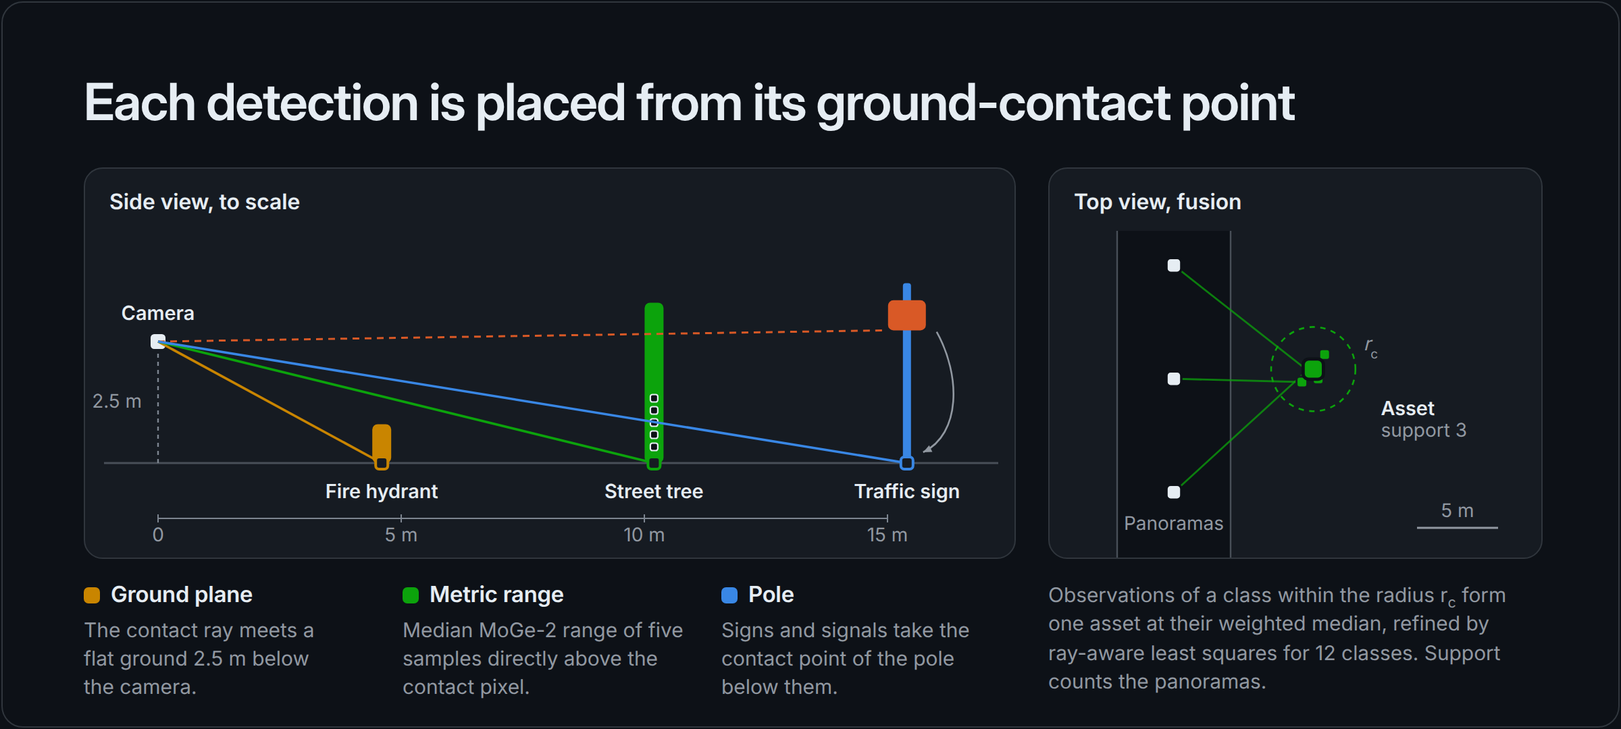
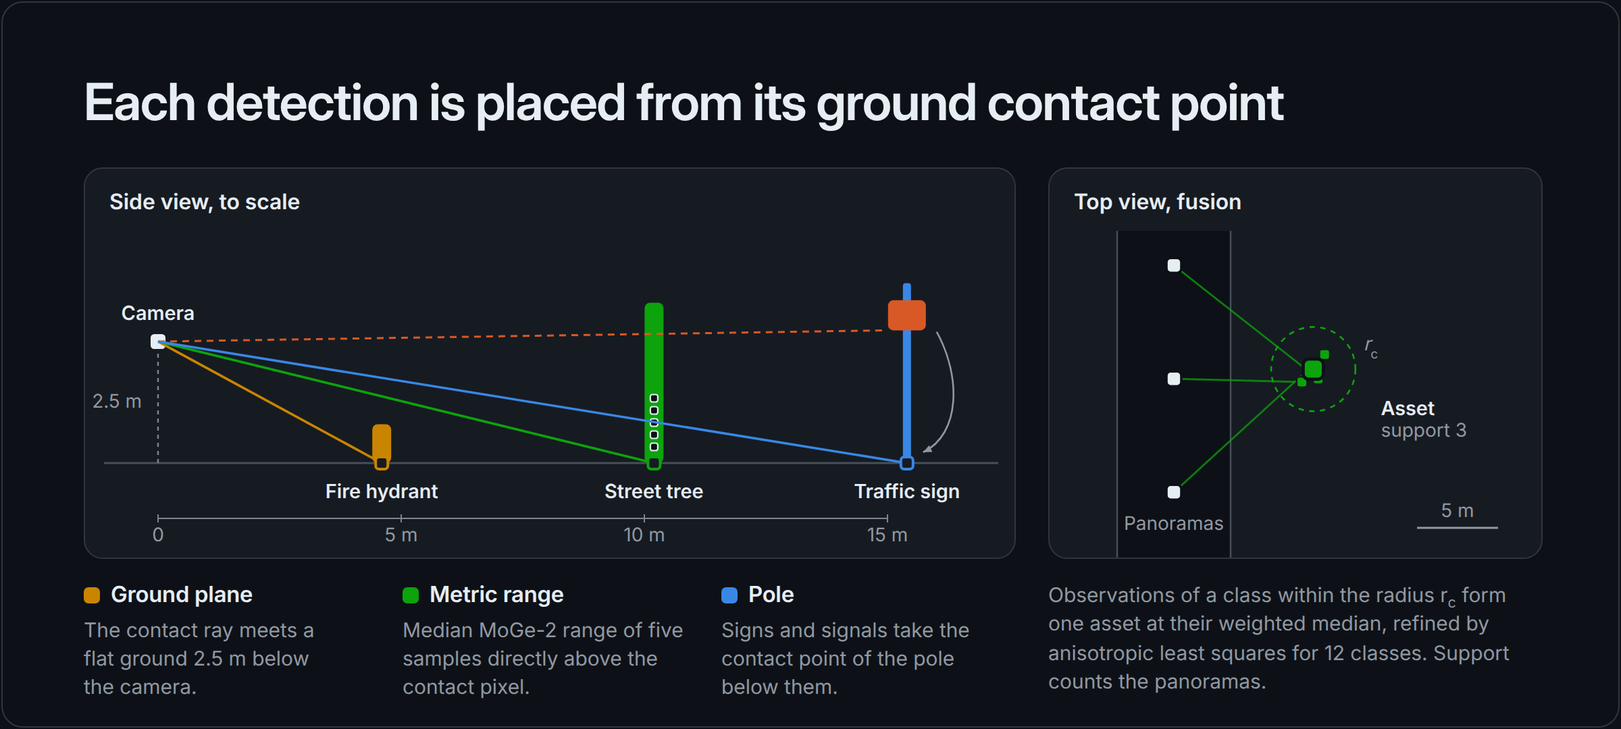
Wording: established terms and no needless hyphens in noun compounds

Changed region(s): [[0.5938, 0.1222, 0.8125, 0.1833], [0.625, 0.8861, 0.9375, 0.9167]]

diff --git a/docs/data.html b/docs/data.html
@@ -42,7 +42,7 @@
 <h1>Data formats</h1>
 <h2 id="panorama-index">Panorama index<a class="anchor" href="#panorama-index" aria-label="Link to this section">#</a></h2>
 <p>A Parquet or CSV table with one row per panorama (<code>streetnet/index.py</code>):</p>
-<div class="table-wrap"><table><thead><tr><th>Column</th><th>Type</th><th>Required</th><th>Meaning</th></tr></thead><tbody><tr><td><code>pano_id</code></td><td>string</td><td>yes</td><td>unique identifier</td></tr><tr><td><code>lat</code>, <code>lon</code></td><td>float</td><td>yes</td><td>camera position, WGS 84</td></tr><tr><td><code>heading</code></td><td>float</td><td>yes</td><td>compass bearing of the centre column of the panorama, degrees clockwise from north</td></tr><tr><td><code>pitch</code>, <code>roll</code></td><td>float</td><td>no</td><td>camera pitch and roll from the capture metadata in degrees, pitch 0 = level</td></tr><tr><td><code>nx</code>, <code>ny</code>, <code>nz</code></td><td>float</td><td>no</td><td>ground up-normal in the camera frame (x right, y forward, z up); overrides pitch and roll</td></tr><tr><td><code>h</code></td><td>float</td><td>no</td><td>camera height above the ground in metres; 2.5 when missing</td></tr><tr><td><code>image</code></td><td>string</td><td>no</td><td>path of the panorama, absolute or relative to <code>--images</code>; <code>&lt;images&gt;/&lt;pano_id&gt;.jpg</code> when missing</td></tr></tbody></table></div>
+<div class="table-wrap"><table><thead><tr><th>Column</th><th>Type</th><th>Required</th><th>Meaning</th></tr></thead><tbody><tr><td><code>pano_id</code></td><td>string</td><td>yes</td><td>unique identifier</td></tr><tr><td><code>lat</code>, <code>lon</code></td><td>float</td><td>yes</td><td>camera position, WGS 84</td></tr><tr><td><code>heading</code></td><td>float</td><td>yes</td><td>compass bearing of the centre column of the panorama, degrees clockwise from north</td></tr><tr><td><code>pitch</code>, <code>roll</code></td><td>float</td><td>no</td><td>camera pitch and roll from the capture metadata in degrees, pitch 0 = level</td></tr><tr><td><code>nx</code>, <code>ny</code>, <code>nz</code></td><td>float</td><td>no</td><td>ground normal in the camera frame (x right, y forward, z up); overrides pitch and roll</td></tr><tr><td><code>h</code></td><td>float</td><td>no</td><td>camera height above the ground in metres; 2.5 when missing</td></tr><tr><td><code>image</code></td><td>string</td><td>no</td><td>path of the panorama, absolute or relative to <code>--images</code>; <code>&lt;images&gt;/&lt;pano_id&gt;.jpg</code> when missing</td></tr></tbody></table></div>
 <p>Panoramas are equirectangular JPEGs (width = 2 x height) whose centre column looks along <code>heading</code>. Without pitch, roll or a normal the camera is treated as level. The map frame is the UTM zone that contains the median camera position.</p>
 <h2 id="reference-points">Reference points<a class="anchor" href="#reference-points" aria-label="Link to this section">#</a></h2>
 <p><code>streetnet eval --gt</code> reads a Parquet or CSV table with one row per reference asset:</p>
@@ -65,7 +65,7 @@
 <div class="table-wrap"><table><thead><tr><th>Column</th><th>Meaning</th></tr></thead><tbody><tr><td><code>pano_id</code>, <code>model</code>, <code>label</code>, <code>raw_label</code>, <code>score</code></td><td>panorama; <code>sam3</code> or <code>m2f_vistas_pan</code>; class key; prompt or Vistas class name; detection score</td></tr><tr><td><code>view</code></td><td>index of the detection view (0 to 3, yaw 0, 90, 180, 270 degrees)</td></tr><tr><td><code>x0</code>, <code>y0</code>, <code>x1</code>, <code>y1</code>, <code>area_px</code></td><td>box and mask area in view pixels (1008 x 1008)</td></tr><tr><td><code>bot_px</code>, <code>bot_py</code>, <code>top_px</code>, <code>top_py</code></td><td>contact pixel and top pixel</td></tr><tr><td><code>bot_dx</code>, <code>bot_dy</code>, <code>bot_dz</code>; <code>top_*</code>; <code>cen_*</code></td><td>camera-frame unit rays through the contact pixel, the top pixel and the mask centroid</td></tr><tr><td><code>bot_az</code>, <code>bot_el</code></td><td>azimuth (degrees clockwise from forward) and elevation of the contact ray</td></tr><tr><td><code>cut_bottom</code>, <code>cut_side</code></td><td>the mask touches the bottom edge, a side edge of the view</td></tr><tr><td><code>owner</code></td><td>the contact azimuth lies in this view's central sector</td></tr><tr><td><code>mount</code></td><td><code>ground</code>, <code>pole</code> or <code>surface</code></td></tr><tr><td><code>dup</code></td><td>the mask overlaps a higher-scoring mask of the same class in the same view (IoU &gt; 0.6)</td></tr><tr><td><code>prompt_rank</code></td><td>position of the prompt within its class (0 = first prompt); empty for Mask2Former rows</td></tr><tr><td><code>sign_filter</code></td><td><code>signal_relabel</code> for sign detections relabelled traffic signal by the sign filter, else empty</td></tr><tr><td><code>drng</code></td><td>MoGe-2 range at the contact point in metres (median of five samples), NaN when unavailable</td></tr></tbody></table></div>
 <h2 id="map-map_assetsparquet">Map: <code>map/&lt;name&gt;_assets.parquet</code><a class="anchor" href="#map-map_assetsparquet" aria-label="Link to this section">#</a></h2>
 <p>The map stage writes the classes of the parameter file found in the detections: the 22 classes of the published map and utility poles, which serve as pole carriers for signs. The dataset export leaves utility poles out.</p>
-<div class="table-wrap"><table><thead><tr><th>Column</th><th>Meaning</th></tr></thead><tbody><tr><td><code>asset_id</code></td><td>row number</td></tr><tr><td><code>label</code></td><td>class key</td></tr><tr><td><code>x</code>, <code>y</code>; <code>lon</code>, <code>lat</code></td><td>position in the UTM frame (metres) and in WGS 84</td></tr><tr><td><code>support</code>, <code>n_obs</code></td><td>distinct panoramas and observations in the cluster</td></tr><tr><td><code>score_mean</code>, <code>score_max</code>, <code>conf</code></td><td>mean and maximum detection score; confidence 1 - prod(1 - best score per panorama)</td></tr><tr><td><code>rng_min</code>, <code>rng_med</code></td><td>smallest and median horizontal range of the cluster's observations (m)</td></tr><tr><td><code>spread</code></td><td>median distance of the observations from the asset position (m)</td></tr><tr><td><code>best_obs</code></td><td>the observation with the smallest range, as an id local to its block</td></tr><tr><td><code>best_pano</code>, <code>best_row</code></td><td>that observation's panorama and its row in the panorama's detection file</td></tr><tr><td><code>estimator</code></td><td><code>depth</code> (MoGe-2 range) or <code>ground</code> (flat-ground geometry), the more frequent among the cluster's observations</td></tr><tr><td><code>block</code>, <code>dense</code></td><td>the 1 km block that kept the asset; whether the block used the uncapped parameters</td></tr><tr><td><code>source</code></td><td>the model the class is taken from</td></tr></tbody></table></div>
+<div class="table-wrap"><table><thead><tr><th>Column</th><th>Meaning</th></tr></thead><tbody><tr><td><code>asset_id</code></td><td>row number</td></tr><tr><td><code>label</code></td><td>class key</td></tr><tr><td><code>x</code>, <code>y</code>; <code>lon</code>, <code>lat</code></td><td>position in the UTM frame (metres) and in WGS 84</td></tr><tr><td><code>support</code>, <code>n_obs</code></td><td>distinct panoramas and observations in the cluster</td></tr><tr><td><code>score_mean</code>, <code>score_max</code>, <code>conf</code></td><td>mean and maximum detection score; confidence 1 - prod(1 - best score per panorama)</td></tr><tr><td><code>rng_min</code>, <code>rng_med</code></td><td>smallest and median horizontal range of the cluster's observations (m)</td></tr><tr><td><code>spread</code></td><td>median distance of the observations from the asset position (m)</td></tr><tr><td><code>best_obs</code></td><td>the observation with the smallest range, as an id local to its block</td></tr><tr><td><code>best_pano</code>, <code>best_row</code></td><td>that observation's panorama and its row in the panorama's detection file</td></tr><tr><td><code>estimator</code></td><td><code>depth</code> (MoGe-2 range) or <code>ground</code> (ground-plane geometry), the more frequent among the cluster's observations</td></tr><tr><td><code>block</code>, <code>dense</code></td><td>the 1 km block that kept the asset; whether the block used the uncapped parameters</td></tr><tr><td><code>source</code></td><td>the model the class is taken from</td></tr></tbody></table></div>
 <p><code>&lt;name&gt;_obs.parquet</code> lists the clustered observations: <code>pano_id</code>, <code>row</code> (row in the panorama's detection file), <code>model</code>, <code>label</code>, <code>raw_label</code>, <code>score</code>, <code>view</code>, box (<code>x0</code>, <code>y0</code>, <code>x1</code>, <code>y1</code>), <code>X</code>, <code>Y</code> (position in metres), <code>rng</code>, <code>bearing</code>, <code>asset</code>, <code>loc_src</code> (<code>self</code> or <code>pole</code>), <code>loc_est</code> (<code>depth</code> or <code>ground</code>), <code>cut_bottom</code>, <code>cut_side</code> and <code>block</code>.</p>
 <p>The published dataset renames and reduces these columns:</p>
 <div class="table-wrap"><table><thead><tr><th>Map column</th><th>Dataset column</th></tr></thead><tbody><tr><td><code>label</code></td><td><code>class</code></td></tr><tr><td><code>lon</code>, <code>lat</code></td><td><code>lon</code>, <code>lat</code> (and <code>geometry</code>)</td></tr><tr><td><code>support</code></td><td><code>support</code></td></tr><tr><td><code>conf</code></td><td><code>confidence</code></td></tr><tr><td><code>estimator</code> (<code>depth</code>, <code>ground</code>)</td><td><code>position_source</code> (<code>range</code>, <code>ground</code>)</td></tr><tr><td><code>spread</code></td><td><code>spread_m</code></td></tr><tr><td><code>rng_min</code></td><td><code>range_min_m</code></td></tr><tr><td><code>best_pano</code></td><td><code>borough</code> of that panorama (the panorama id is not published)</td></tr></tbody></table></div>

diff --git a/docs/method.html b/docs/method.html
@@ -66,7 +66,7 @@ world  UTM metres of the zone containing the median camera (New York City: EPSG:
        world &lt;- lev: rotation about z by -heading; a lev ray of azimuth lam has compass bearing heading + lam</code></pre>
 <p>Leveling (<code>geometry.metadata_normal</code>, <code>geometry.leveling_from_normal</code>) uses the camera pitch and roll of the capture metadata. The rule was calibrated on Street View metadata in the pilot study:</p>
 <pre><code>tilt = -pitch;  roll = roll wrapped to [-180, 180)                                  (degrees)
-n    = normalise(sin(-0.7 roll), sin(tilt), 1)                                     ground up-normal, cam frame
+n    = normalise(sin(-0.7 roll), sin(tilt), 1)                                     ground normal, cam frame
 n    = (0, 0, 1)  if |tilt| &gt; 12 or |roll| &gt; 8                                       treated as level
 R_lev = the rotation taking n to +z (Rodrigues formula)</code></pre>
 <h2 id="stage-1-detection-detectpy">Stage 1: detection (<code>detect.py</code>)<a class="anchor" href="#stage-1-detection-detectpy" aria-label="Link to this section">#</a></h2>
@@ -172,7 +172,7 @@ position  = camera position + world_from_lev(heading) p;   horizontal range rng 
     keep the asset when support &gt;= min_support and confidence &gt;= conf_thr</code></pre>
 <p>Before clustering, pedestrian signals are relabelled traffic signals.</p>
 <h3 id="per-class-parameters">Per-class parameters<a class="anchor" href="#per-class-parameters" aria-label="Link to this section">#</a></h3>
-<p>The parameters (<code>streetnet/configs/fusion_params.json</code>) of 14 classes were chosen by a grid search per class that maximized F1 at 3 m against NYC Open Data on the development split of the pilot study (478 of its 10,180 panoramas, 8 views, 34 prompts). The 8 classes without a reference layer (tuned = no) use hand-set values: R_max 15 m, r_c 2 m, greedy clustering, aniso position, score_thr 0.4, min_support 2, conf_thr 0.6, with R_max 12 m and r_c 1.5 m for manhole covers. The file's <code>default</code> entry fills the keys a class leaves out (min_range 1 m, w_floor 3 m). Four tuned classes rest on 11 or fewer reference points of the development split (bench 5, fire alarm box 7, bus shelter 10, LinkNYC kiosk 11).</p>
+<p>The parameters (<code>streetnet/configs/fusion_params.json</code>) of 14 classes were chosen by a grid search per class that maximized F1 at 3 m against NYC Open Data on the development split of the pilot study (478 of its 10,180 panoramas, 8 views, 34 prompts). The 8 classes without a reference layer (tuned = no) use manually set values: R_max 15 m, r_c 2 m, greedy clustering, aniso position, score_thr 0.4, min_support 2, conf_thr 0.6, with R_max 12 m and r_c 1.5 m for manhole covers. The file's <code>default</code> entry fills the keys a class leaves out (min_range 1 m, w_floor 3 m). Four tuned classes rest on 11 or fewer reference points of the development split (bench 5, fire alarm box 7, bus shelter 10, LinkNYC kiosk 11).</p>
 <div class="table-wrap"><table><thead><tr><th>Class</th><th class=n>R_max (m)</th><th class=n>r_c (m)</th><th>Clustering</th><th>Cluster position</th><th class=n>score_thr</th><th class=n>min_support</th><th class=n>conf_thr</th><th>Tuned</th><th class=n>Dev F1 at 3 m</th><th class=n>Dev reference points</th></tr></thead><tbody><tr><td>Street light</td><td class=n>25</td><td class=n>3</td><td>cc</td><td>median</td><td class=n>0.5</td><td class=n>2</td><td class=n>0</td><td>yes</td><td class=n>0.275</td><td class=n>134</td></tr><tr><td>Sign pole</td><td class=n>25</td><td class=n>4</td><td>cc</td><td>aniso</td><td class=n>0</td><td class=n>2</td><td class=n>0.7</td><td>yes</td><td class=n>0.120</td><td class=n>207</td></tr><tr><td>Traffic signal</td><td class=n>15</td><td class=n>2</td><td>greedy</td><td>aniso</td><td class=n>0.4</td><td class=n>2</td><td class=n>0.6</td><td>no</td><td class=n></td><td class=n></td></tr><tr><td>Traffic sign</td><td class=n>20</td><td class=n>4</td><td>cc</td><td>median</td><td class=n>0</td><td class=n>1</td><td class=n>0.5</td><td>yes</td><td class=n>0.292</td><td class=n>407</td></tr><tr><td>Bus stop sign</td><td class=n>15</td><td class=n>2</td><td>greedy</td><td>aniso</td><td class=n>0.4</td><td class=n>2</td><td class=n>0.6</td><td>no</td><td class=n></td><td class=n></td></tr><tr><td>Manhole cover</td><td class=n>12</td><td class=n>1.5</td><td>greedy</td><td>aniso</td><td class=n>0.4</td><td class=n>2</td><td class=n>0.6</td><td>no</td><td class=n></td><td class=n></td></tr><tr><td>Catch basin</td><td class=n>15</td><td class=n>1</td><td>cc</td><td>median</td><td class=n>0</td><td class=n>1</td><td class=n>0.8</td><td>yes</td><td class=n>0.222</td><td class=n>98</td></tr><tr><td>Curb ramp</td><td class=n>15</td><td class=n>2</td><td>cc</td><td>median</td><td class=n>0.5</td><td class=n>1</td><td class=n>0</td><td>yes</td><td class=n>0.585</td><td class=n>141</td></tr><tr><td>Fire hydrant</td><td class=n>20</td><td class=n>3</td><td>cc</td><td>aniso</td><td class=n>0</td><td class=n>1</td><td class=n>0.6</td><td>yes</td><td class=n>0.418</td><td class=n>82</td></tr><tr><td>Bollard</td><td class=n>15</td><td class=n>2</td><td>greedy</td><td>aniso</td><td class=n>0.4</td><td class=n>2</td><td class=n>0.6</td><td>no</td><td class=n></td><td class=n></td></tr><tr><td>Barrier</td><td class=n>15</td><td class=n>2</td><td>greedy</td><td>aniso</td><td class=n>0.4</td><td class=n>2</td><td class=n>0.6</td><td>no</td><td class=n></td><td class=n></td></tr><tr><td>Fire alarm box</td><td class=n>15</td><td class=n>2</td><td>greedy</td><td>median</td><td class=n>0</td><td class=n>1</td><td class=n>0.6</td><td>yes</td><td class=n>0.182</td><td class=n>7</td></tr><tr><td>Trash can</td><td class=n>25</td><td class=n>2</td><td>cc</td><td>aniso</td><td class=n>0</td><td class=n>1</td><td class=n>0.7</td><td>yes</td><td class=n>0.127</td><td class=n>66</td></tr><tr><td>Street tree</td><td class=n>25</td><td class=n>3</td><td>cc</td><td>aniso</td><td class=n>0</td><td class=n>2</td><td class=n>0.6</td><td>yes</td><td class=n>0.633</td><td class=n>510</td></tr><tr><td>Planter</td><td class=n>15</td><td class=n>2</td><td>greedy</td><td>aniso</td><td class=n>0.4</td><td class=n>2</td><td class=n>0.6</td><td>no</td><td class=n></td><td class=n></td></tr><tr><td>Bus shelter</td><td class=n>20</td><td class=n>4</td><td>greedy</td><td>median</td><td class=n>0</td><td class=n>1</td><td class=n>0.7</td><td>yes</td><td class=n>0.476</td><td class=n>10</td></tr><tr><td>Bike rack</td><td class=n>20</td><td class=n>3</td><td>greedy</td><td>median</td><td class=n>0.5</td><td class=n>1</td><td class=n>0</td><td>yes</td><td class=n>0.225</td><td class=n>49</td></tr><tr><td>Bike share dock</td><td class=n>15</td><td class=n>2</td><td>greedy</td><td>aniso</td><td class=n>0.4</td><td class=n>2</td><td class=n>0.6</td><td>no</td><td class=n></td><td class=n></td></tr><tr><td>Parking meter</td><td class=n>15</td><td class=n>1.5</td><td>cc</td><td>median</td><td class=n>0.5</td><td class=n>1</td><td class=n>0.6</td><td>yes</td><td class=n>0.170</td><td class=n>30</td></tr><tr><td>Bench</td><td class=n>20</td><td class=n>1</td><td>greedy</td><td>median</td><td class=n>0.5</td><td class=n>2</td><td class=n>0</td><td>yes</td><td class=n>0.364</td><td class=n>5</td></tr><tr><td>Mailbox</td><td class=n>15</td><td class=n>2</td><td>greedy</td><td>aniso</td><td class=n>0.4</td><td class=n>2</td><td class=n>0.6</td><td>no</td><td class=n></td><td class=n></td></tr><tr><td>LinkNYC kiosk</td><td class=n>10</td><td class=n>2</td><td>greedy</td><td>median</td><td class=n>0</td><td class=n>1</td><td class=n>0.8</td><td>yes</td><td class=n>0.167</td><td class=n>11</td></tr></tbody></table></div>
 <h3 id="city-scale-processing-mappingbuild_map">City-scale processing (<code>mapping.build_map</code>)<a class="anchor" href="#city-scale-processing-mappingbuild_map" aria-label="Link to this section">#</a></h3>
 <pre><code>blocks   squares of 1000 m in the UTM frame that contain at least one panorama

diff --git a/docs/index.html b/docs/index.html
@@ -4,7 +4,7 @@
 <meta charset="utf-8">
 <meta name="viewport" content="width=device-width, initial-scale=1">
 <title>StreetNet</title>
-<meta name="description" content="StreetNet maps street assets from street-level panoramas: 22 classes segmented in each panorama, placed from their ground-contact point and fused into one georeferenced point per asset.">
+<meta name="description" content="StreetNet maps street assets from street-level panoramas: 22 classes segmented in each panorama, placed from their ground contact point and fused into one georeferenced point per asset.">
 <meta property="og:title" content="StreetNet">
 <meta property="og:description" content="An automated, ready-to-deploy asset management system that maps street assets from street-level panoramas.">
 <meta property="og:image" content="https://mkturkcan.github.io/streetnet/assets/figures/hero.jpg">
@@ -89,14 +89,14 @@
       <div class="sec-body">
         <figure class="fig">
           <a href="assets/figures/overview.jpg" class="zoom" aria-label="Open the figure at full size"><picture><source srcset="assets/figures/overview-dark.jpg" media="(prefers-color-scheme: dark)" data-dark>
-            <img src="assets/figures/overview.jpg" width="2400" height="1660" loading="lazy" alt="One panorama with its four views, one view with the segmented assets, the MoGe-2 range of that view with the ground-contact points, and a top view of the observations fused into assets"></picture></a>
+            <img src="assets/figures/overview.jpg" width="2400" height="1660" loading="lazy" alt="One panorama with its four views, one view with the segmented assets, the MoGe-2 range of that view with the ground contact points, and a top view of the observations fused into assets"></picture></a>
         </figure>
         <div class="facts">
           <div class="fact"><h3>Views</h3><p>Four pinhole views per panorama, 90° wide and pitched 10° down, at 1008 × 1008 px.</p></div>
           <div class="fact"><h3>Segmentation</h3><p>SAM 3 with 25 text prompts in one batch. Mask2Former trained on Mapillary Vistas segments curb ramps and catch basins, and its labels filter sign detections on vehicles and signal heads.</p></div>
           <div class="fact"><h3>Ground contact</h3><p>The median column of the lowest rows of each mask. Its range is the median of five MoGe-2 samples on a strip directly above that pixel.</p></div>
           <div class="fact"><h3>Placement</h3><p>Trees, street lights, signs, signals, benches and bike racks are placed at their MoGe-2 range when it is available, the other classes on a ground plane 2.5 m below the camera.</p></div>
-          <div class="fact"><h3>Fusion</h3><p>Detections of a class within a class-specific radius of 1 to 4 m form one asset at their weighted median, refined by ray-aware least squares for 12 classes. Support counts the panoramas; confidence is 1 − prod(1 − best score of each panorama).</p></div>
+          <div class="fact"><h3>Fusion</h3><p>Detections of a class within a class-specific radius of 1 to 4 m form one asset at their weighted median, refined by anisotropic least squares for 12 classes. Support counts the panoramas; confidence is 1 − prod(1 − best score of each panorama).</p></div>
           <div class="fact"><h3>City scale</h3><p>Blocks of 1 km with a 60 m halo are mapped in parallel on CPUs. Detection takes 0.9 s per panorama on one GPU.</p></div>
         </div>
         <figure class="fig" style="margin-top:40px">
@@ -174,7 +174,7 @@
           <div class="prose">
 <!-- nyc:start -->
 <p><strong>Version v0.2 (plan levels up to 20)</strong>: 4,265,125 assets in 22 classes from 401,419 panoramas captured between 2007 and 2026. Plan levels up to 20 (one panorama per cell of about 29 m) across the five boroughs; minimum support capped at 1.</p>
-<p>The evaluation region is the union of 15 m disks around the 5996 mapped panoramas that lie within 20 m of a panorama of the Upper Manhattan pilot study and at least 30 m from its development split, on which the fusion parameters were tuned. Over 29,806 ground-truth assets of NYC Open Data in that region, the map has precision 0.255, recall 0.345 and F1 0.293 at a matching radius of 3 m (<a href="#accuracy">table</a>).</p>
+<p>The evaluation region is the union of 15 m disks around the 5996 mapped panoramas that lie within 20 m of a panorama of the Upper Manhattan pilot study and at least 30 m from its development split, on which the fusion parameters were tuned. Over 29,806 reference assets of NYC Open Data in that region, the map has precision 0.255, recall 0.345 and F1 0.293 at a matching radius of 3 m (<a href="#accuracy">table</a>).</p>
 <p>The dataset holds the asset map, the reference points and the evaluation region, and no imagery.</p>
 <!-- nyc:end -->
           </div>
@@ -296,7 +296,7 @@ streetnet status --index panos.parquet --run runs/city</code></pre></div>
         <div class="sec-h"><h2>Citation</h2></div>
 <pre style="margin-top:24px"><code>@software{turkcan2026streetnet,
   author  = {Turkcan, Mehmet Kerem},
-  title   = {{StreetNet}: street-asset maps from street-level panoramas},
+  title   = {{StreetNet}: street asset maps from street-level panoramas},
   year    = {2026},
   version = {0.1.0},
   url     = {https://github.com/mkturkcan/streetnet}

diff --git a/docs/evaluation.html b/docs/evaluation.html
@@ -58,7 +58,7 @@ median error: median distance of the pairs matched within 5 m</code></pre>
 <p>Matching against reference points outside the region keeps an asset near the region boundary from counting as a false positive when its reference point lies outside the region.</p>
 <h2 id="reference-data-for-new-york-city">Reference data for New York City<a class="anchor" href="#reference-data-for-new-york-city" aria-label="Link to this section">#</a></h2>
 <p>The reference points come from NYC Open Data. Several layers are partial or dated; a detected asset that is missing from its layer counts as a false positive.</p>
-<div class="table-wrap"><table><thead><tr><th>Class</th><th>Dataset</th><th>Agency</th><th>Id</th><th>Coverage</th></tr></thead><tbody><tr><td>Street tree</td><td>2015 Street Tree Census - Tree Data</td><td>Parks</td><td><code>uvpi-gqnh</code></td><td>census of 2015</td></tr><tr><td>Curb ramp</td><td>Pedestrian Ramp Locations</td><td>DOT</td><td><code>ufzp-rrqu</code></td><td>survey of 2019</td></tr><tr><td>Fire hydrant</td><td>Hydrants</td><td>DEP</td><td><code>5bgh-vtsn</code></td><td>inventory</td></tr><tr><td>Catch basin</td><td>NYCDEP Citywide Catch Basins</td><td>DEP</td><td><code>2w2g-fk3i</code></td><td>inventory</td></tr><tr><td>Traffic sign</td><td>Street Sign Work Orders, current records</td><td>DOT</td><td><code>qt6m-xctn</code></td><td>signs with a work order</td></tr><tr><td>Sign pole</td><td>Street Sign Work Orders, sign positions</td><td>DOT</td><td><code>qt6m-xctn</code></td><td>signs with a work order</td></tr><tr><td>Street light</td><td>Street Sign Work Orders; Mobile Telecommunications Franchise Pole Reservation Locations</td><td>DOT; OTI</td><td><code>qt6m-xctn</code>; <code>tbgj-tdd6</code></td><td>partial</td></tr><tr><td>Trash can</td><td>DSNY Litter Basket Inventory</td><td>DSNY</td><td><code>8znf-7b2c</code></td><td>public litter baskets</td></tr><tr><td>Bike rack</td><td>Bicycle Parking</td><td>DOT</td><td><code>592z-n7dk</code></td><td>city-installed racks</td></tr><tr><td>Bench</td><td>Seating Locations</td><td>DOT</td><td><code>esmy-s8q5</code></td><td>city-installed seating</td></tr><tr><td>Bus shelter</td><td>Bus Stop Shelters</td><td>DOT</td><td><code>t4f2-8md7</code></td><td>inventory</td></tr><tr><td>Parking meter</td><td>Parking Meters Locations and Status</td><td>DOT</td><td><code>693u-uax6</code></td><td>inventory</td></tr><tr><td>LinkNYC kiosk</td><td>LinkNYC Kiosk Locations</td><td>OTI</td><td><code>s4kf-3yrf</code></td><td>inventory</td></tr><tr><td>Fire alarm box</td><td>In-Service Alarm Box Locations</td><td>FDNY</td><td><code>v57i-gtxb</code></td><td>2019</td></tr></tbody></table></div>
+<div class="table-wrap"><table><thead><tr><th>Class</th><th>Dataset</th><th>Agency</th><th>Id</th><th>Coverage</th></tr></thead><tbody><tr><td>Street tree</td><td>2015 Street Tree Census - Tree Data</td><td>Parks</td><td><code>uvpi-gqnh</code></td><td>census of 2015</td></tr><tr><td>Curb ramp</td><td>Pedestrian Ramp Locations</td><td>DOT</td><td><code>ufzp-rrqu</code></td><td>survey of 2019</td></tr><tr><td>Fire hydrant</td><td>Hydrants</td><td>DEP</td><td><code>5bgh-vtsn</code></td><td>inventory</td></tr><tr><td>Catch basin</td><td>NYCDEP Citywide Catch Basins</td><td>DEP</td><td><code>2w2g-fk3i</code></td><td>inventory</td></tr><tr><td>Traffic sign</td><td>Street Sign Work Orders, current records</td><td>DOT</td><td><code>qt6m-xctn</code></td><td>signs with a work order</td></tr><tr><td>Sign pole</td><td>Street Sign Work Orders, sign positions</td><td>DOT</td><td><code>qt6m-xctn</code></td><td>signs with a work order</td></tr><tr><td>Street light</td><td>Street Sign Work Orders; Mobile Telecommunications Franchise Pole Reservation Locations</td><td>DOT; OTI</td><td><code>qt6m-xctn</code>; <code>tbgj-tdd6</code></td><td>partial</td></tr><tr><td>Trash can</td><td>DSNY Litter Basket Inventory</td><td>DSNY</td><td><code>8znf-7b2c</code></td><td>public litter baskets</td></tr><tr><td>Bike rack</td><td>Bicycle Parking</td><td>DOT</td><td><code>592z-n7dk</code></td><td>racks installed by the city</td></tr><tr><td>Bench</td><td>Seating Locations</td><td>DOT</td><td><code>esmy-s8q5</code></td><td>seating installed by the city</td></tr><tr><td>Bus shelter</td><td>Bus Stop Shelters</td><td>DOT</td><td><code>t4f2-8md7</code></td><td>inventory</td></tr><tr><td>Parking meter</td><td>Parking Meters Locations and Status</td><td>DOT</td><td><code>693u-uax6</code></td><td>inventory</td></tr><tr><td>LinkNYC kiosk</td><td>LinkNYC Kiosk Locations</td><td>OTI</td><td><code>s4kf-3yrf</code></td><td>inventory</td></tr><tr><td>Fire alarm box</td><td>In-Service Alarm Box Locations</td><td>FDNY</td><td><code>v57i-gtxb</code></td><td>2019</td></tr></tbody></table></div>
 <p>Manhole covers, bollards, barriers, planters, mailboxes, bus stop signs, traffic signals and bike share docks have no point layer of this kind and are left out of the accuracy table.</p>
 <h2 id="region">Region<a class="anchor" href="#region" aria-label="Link to this section">#</a></h2>
 <p>The fusion parameters were tuned on the development split (478 panoramas) of a pilot study of 10,180 panoramas in Upper Manhattan. The evaluation region of the New York City map lies in the pilot area and excludes the development split:</p>

diff --git a/tools/figures/slides/placement.html b/tools/figures/slides/placement.html
@@ -23,7 +23,7 @@
 </head>
 <body data-size="1200x540" data-format="png">
 <div class="slide">
-  <h1>Each detection is placed from its ground-contact point</h1>
+  <h1>Each detection is placed from its ground contact point</h1>
   <div class="grid">
     <div>
       <div class="panel" data-clip><span class="ptitle">Side view, to scale</span><svg id="side"></svg></div>
@@ -38,7 +38,7 @@
     </div>
     <div>
       <div class="panel" data-clip><span class="ptitle">Top view, fusion</span><svg id="top"></svg></div>
-      <div class="side-note"><p class="body">Observations of a class within the radius r<sub>c</sub> form one asset at their weighted median, refined by <span class="nw">ray-aware</span> least squares for 12 classes. Support counts the panoramas.</p></div>
+      <div class="side-note"><p class="body">Observations of a class within the radius r<sub>c</sub> form one asset at their weighted median, refined by <span class="nw">anisotropic</span> least squares for 12 classes. Support counts the panoramas.</p></div>
     </div>
   </div>
 </div>

diff --git a/tools/figures/slides/pipeline.html b/tools/figures/slides/pipeline.html
@@ -40,7 +40,7 @@
     <div class="box model" id="moge" style="left:416px; top:154px; width:300px; height:62px">
       <span class="t">MoGe-2</span><span class="s">Metric range of each view</span></div>
     <div class="box data" id="rec" style="left:750px; top:57px; width:312px; height:116px">
-      <span class="t">Detection records</span><span class="s">Class, score, box, ground-contact ray and range of each detection</span>
+      <span class="t">Detection records</span><span class="s">Class, score, box, ground contact ray and range of each detection</span>
       <span class="f">det/&lt;pano_id&gt;.parquet</span></div>
 
     <!-- stage 2 -->

diff --git a/tools/export_nyc_dataset.py b/tools/export_nyc_dataset.py
@@ -158,7 +158,7 @@ license: {a.license}
 pretty_name: StreetNet New York City asset map
 tags:
 - geospatial
-- street-assets
+- street assets
 - asset-inventory
 - urban
 - new-york-city
@@ -185,7 +185,7 @@ the accuracy section quantifies. The dataset contains no imagery and no panorama
 | Assets | {n_assets:,} in {pub['class'].nunique()} classes ({borough_line}) |
 | Panoramas | {summary['n_panos']:,} street-level panoramas (Google Street View), captured {yr} |
 | Panorama selection | {a.selection} |
-| Accuracy | F1 {fmt(allr['f1'])} at 3 m over {allr['n_gt']:,} ground-truth assets in the evaluation region (precision {fmt(allr['precision'])}, recall {fmt(allr['recall'])}) |
+| Accuracy | F1 {fmt(allr['f1'])} at 3 m over {allr['n_gt']:,} reference assets in the evaluation region (precision {fmt(allr['precision'])}, recall {fmt(allr['recall'])}) |
 | Version | {a.version}, built {date.today().isoformat()} with streetnet {__version__} |
 
 ## Files
@@ -226,21 +226,21 @@ the accuracy section quantifies. The dataset contains no imagery and no panorama
 Per panorama, StreetNet renders four perspective views (90 degree field of view, 10 degrees below the horizon,
 1008 x 1008 px), segments them with SAM 3 using 25 text prompts, takes curb ramps and catch basins from
 Mask2Former trained on Mapillary Vistas, and measures the metric range of each detection with MoGe-2. Each
-detection is placed on the map along the ray through its ground-contact pixel: trees, street lights, signs,
+detection is placed on the map along the ray through its ground contact pixel: trees, street lights, signs,
 signals, benches and bike racks at the MoGe-2 range when it is available, the other classes where the ray meets a
 flat ground plane 2.5 m below the camera. Pole-mounted signs and signals take the contact point of the pole below them. Detections
 of a class closer than a class-specific radius (1 to 4 m) are clustered into one asset, which is kept when it
 reaches the class's minimum support and confidence. The parameters of 14 classes were tuned on the development
-split (478 panoramas) of a pilot study in Upper Manhattan; the 8 classes without a reference layer use hand-set
+split (478 panoramas) of a pilot study in Upper Manhattan; the 8 classes without a reference layer use manually set
 values. The [method]({REPO}/blob/main/docs/method.md) gives the pseudocode of each
 step.
 
 ## Accuracy
 
-{a.region_note} Ground truth comes from NYC Open Data (table below). Predictions and ground-truth assets of the
+{a.region_note} Ground truth comes from NYC Open Data (table below). Predictions and reference assets of the
 same class within 3 m are matched one to one: the largest number of pairs, and among those the smallest total
-distance. A matched pair whose ground-truth asset lies in the region is a true positive, an unmatched prediction in
-the region a false positive, and an unmatched ground-truth asset in the region a false negative. Classes without
+distance. A matched pair whose reference asset lies in the region is a true positive, an unmatched prediction in
+the region a false positive, and an unmatched reference asset in the region a false negative. Classes without
 ground truth are left out of the table.
 
 | Class | Ground truth | Predicted | Precision | Recall | F1 | Median error (m) |
@@ -271,7 +271,7 @@ streetnet eval --map data/assets.parquet --gt eval/ground_truth.parquet \\
 - Where panoramas are sparse, few assets are seen from two panoramas: in this version {share1:.1%} of the assets
   have support 1. The minimum support is then capped at 1 (see the panorama selection above), which raises recall
   and lowers precision.
-- Positions from flat-ground geometry are biased on slopes and raised sidewalks; positions from metric range carry
+- Positions from ground-plane geometry are biased on slopes and raised sidewalks; positions from metric range carry
   the error of the monocular range estimate, which grows with distance.
 - Classes marked experimental have sparse ground truth or low precision in the pilot study.
 
@@ -288,7 +288,7 @@ Reading `hf://` paths needs `huggingface_hub`. GeoPandas reads the file as a Geo
 
 ## License and attribution
 
-The map is released under {LICENSES.get(a.license, a.license)}. The ground-truth points in `eval/`
+The map is released under {LICENSES.get(a.license, a.license)}. The reference points in `eval/`
 come from NYC Open Data, published by the City of New York under its terms of use. The StreetNet code is released
 under the GNU Affero General Public License v3.0 or later.
 
@@ -297,7 +297,7 @@ under the GNU Affero General Public License v3.0 or later.
 ```bibtex
 @software{{turkcan2026streetnet,
   author  = {{Turkcan, Mehmet Kerem}},
-  title   = {{{{StreetNet}}: street-asset maps from street-level panoramas}},
+  title   = {{{{StreetNet}}: street asset maps from street-level panoramas}},
   year    = {{2026}},
   version = {{{__version__}}},
   url     = {{{REPO}}}
@@ -311,7 +311,7 @@ under the GNU Affero General Public License v3.0 or later.
         capture_years=[y0, y1], assets_by_class={c: int(counts.get(c, 0)) for c in cls}, assets_by_borough=by_borough,
         region_note=a.region_note, n_region_centers=int(len(rc)), accuracy_R3=R3, median_error_m=res["err"]), indent=1,
         default=float))
-    print(f"[export] {n_assets} assets, {len(gt_pub)} ground-truth points, {len(rc)} region centres -> {out}")
+    print(f"[export] {n_assets} assets, {len(gt_pub)} reference points, {len(rc)} region centres -> {out}")
     print(f"[export] F1 at 3 m {allr['f1']:.3f} (P {allr['precision']:.3f}, R {allr['recall']:.3f}, {allr['n_gt']} ground truth)")
 
 

diff --git a/tools/readme_tables.py b/tools/readme_tables.py
@@ -146,7 +146,7 @@ def nyc_readme(S: dict) -> str:
     a = S["accuracy_R3"]["_all"]
     return (f"Version {S['version']}: {S['n_assets']:,} assets in {S['n_classes']} classes from {S['n_panos']:,} panoramas "
             f"captured between {S['capture_years'][0]} and {S['capture_years'][1]}. F1 {f3(a['f1'])} at a matching radius "
-            f"of 3 m over {a['n_gt']:,} ground-truth assets of NYC Open Data "
+            f"of 3 m over {a['n_gt']:,} reference assets of NYC Open Data "
             f"([per-class results](docs/evaluation.md#results)).")
 
 
@@ -156,7 +156,7 @@ def nyc_html(S: dict) -> str:
     return "\n".join([
         f"<p><strong>Version {e(S['version'])}</strong>: {S['n_assets']:,} assets in {S['n_classes']} classes from "
         f"{S['n_panos']:,} panoramas captured between {S['capture_years'][0]} and {S['capture_years'][1]}. {e(S['selection'])}</p>",
-        f"<p>{e(S['region_note'])} Over {a['n_gt']:,} ground-truth assets of NYC Open Data in that region, the map has "
+        f"<p>{e(S['region_note'])} Over {a['n_gt']:,} reference assets of NYC Open Data in that region, the map has "
         f"precision {f3(a['precision'])}, recall {f3(a['recall'])} and F1 {f3(a['f1'])} at a matching radius of 3 m "
         f'(<a href="#accuracy">table</a>).</p>',
         "<p>The dataset holds the asset map, the reference points and the evaluation region, and no imagery.</p>"])

diff --git a/tools/figures/pilot_panels.py b/tools/figures/pilot_panels.py
@@ -13,7 +13,7 @@ score of at least 0.35 (duplicates left out); the top view shows the observation
 Writes docs/assets/img/hero.jpg (a perspective view 100 degrees wide with the masks, used by the hero slide and the
 project page) and, to tools/figures/slides/img/:
     ov-pano.jpg           the panorama between 35 degrees above and 35 degrees below the horizon
-    ov-view.jpg           one detection view with masks and ground-contact pixels
+    ov-view.jpg           one detection view with masks and ground contact pixels
     ov-range.jpg          the same view coloured by MoGe-2 range, with the contact pixels
     ov-map-{light,dark}.png  top view: cameras, rays of the observations and the fused assets
     ov.json               pixel positions of the labels drawn by the slides
@@ -148,7 +148,7 @@ def main():
     Image.fromarray(strip).save(IMG / "ov-pano.jpg", quality=86, subsampling=0, optimize=True, progressive=True)
     labels = {"pano": {"w": W, "h": H, "yaw0": -45}}
 
-    # ---- one detection view with the masks that project into it and the ground-contact pixels
+    # ---- one detection view with the masks that project into it and the ground contact pixels
     v = views[a.view]
     vrays = view_rays(v)
     vimg = sample_equirect(pano, vrays)

diff --git a/streetnet/evaluate.py b/streetnet/evaluate.py
@@ -1,4 +1,4 @@
-"""Evaluation of a map against ground-truth points.
+"""Evaluation of a map against reference points.
 
 Region and ignore rules:
     region       the union of disks of radius region_r (15 m) around the evaluation panoramas
@@ -6,9 +6,9 @@ Region and ignore rules:
                  ground truth of that class, also outside the region: within each connected group of candidate
                  pairs, the largest number of pairs and among those the smallest total distance (Hungarian
                  assignment with a prohibitive cost for pairs farther than R)
-    TP           a matched pair whose ground-truth point lies inside the region
+    TP           a matched pair whose reference point lies inside the region
     FP           an unmatched prediction inside the region
-    FN           an unmatched ground-truth point inside the region
+    FN           an unmatched reference point inside the region
     ignored      matched pairs with the ground truth outside the region, unmatched predictions outside it
 precision = TP / (TP + FP), recall = TP / (TP + FN), F1 = 2 P R / (P + R); F1 is NaN for a class without predictions
 or without ground truth in the region and 0 with both but no TP. '_all' sums TP, FP and FN over the classes;

diff --git a/streetnet/index.py b/streetnet/index.py
@@ -6,7 +6,7 @@ Columns of the index file (Parquet or CSV):
     heading    float    compass bearing of the image's centre column, degrees clockwise from north
     pitch      float    camera pitch from the capture metadata, degrees, 0 = level   (optional)
     roll       float    camera roll from the capture metadata, degrees               (optional)
-    nx, ny, nz float    ground up-normal in the cam frame; overrides pitch and roll  (optional)
+    nx, ny, nz float    ground normal in the cam frame; overrides pitch and roll  (optional)
     h          float    camera height above the ground in metres, default 2.5        (optional)
     image      str      path of the equirectangular JPEG, absolute or relative to --images (optional)
 Without pitch, roll or a normal the panorama is treated as level.

diff --git a/streetnet/instances.py b/streetnet/instances.py
@@ -5,7 +5,7 @@ Columns
 pano_id, model, label (class key), raw_label (prompt or native class name), score
 view                      index into the view set
 x0, y0, x1, y1, area_px   box and mask area in view pixels
-bot_px, bot_py            ground-contact pixel: median column of the mask pixels in rows y1 - k .. y1, bottom edge
+bot_px, bot_py            ground contact pixel: median column of the mask pixels in rows y1 - k .. y1, bottom edge
                           of row y1, with k = max(1, round(0.03 (y1 - y0 + 1)))
 top_px, top_py            top pixel: median column of the mask pixels in rows y0 .. y0 + k, top edge of row y0
 bot_d*, top_d*, cen_d*    cam-frame unit rays through the contact pixel, the top pixel and the mask centroid
